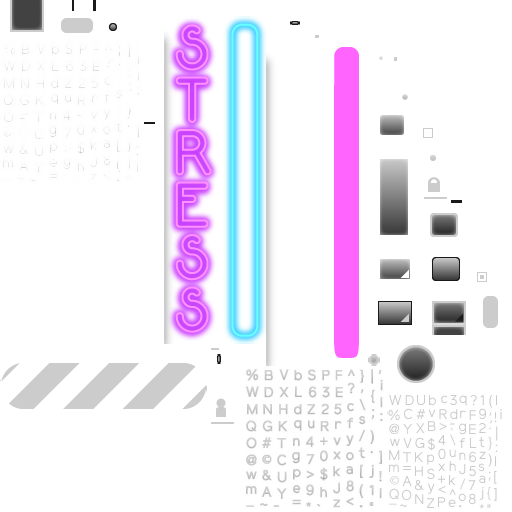
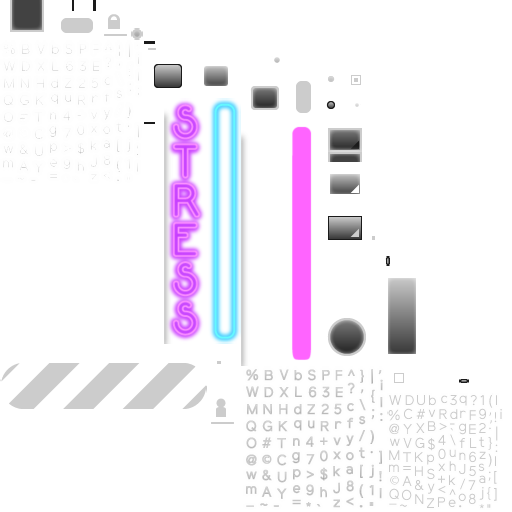
Added stress bar

Changed region(s): [[0.1875, 0.0312, 0.9062, 0.75], [0.8438, 0.5, 1.0, 0.6562], [0.5625, 0.0312, 0.5938, 0.0625]]

diff --git a/core/src/com/adisgrace/games/GameController.java b/core/src/com/adisgrace/games/GameController.java
@@ -162,7 +162,6 @@ public class GameController implements Screen {
         stage.getViewport().apply();
         stage.draw();
 
-        stressBar.setValue(player.getStress());
         toolbarStage.getViewport().apply();
         toolbarStage.draw();
         updateStats();
@@ -220,7 +219,7 @@ public class GameController implements Screen {
         // Move to an outside class eventually
         ExtendViewport toolbarViewPort = new ExtendViewport(Gdx.graphics.getWidth(), Gdx.graphics.getHeight());
         toolbarStage = new Stage(toolbarViewPort);
-        skin = new Skin(Gdx.files.internal("skins/neon-ui.json"));
+        skin = new Skin(Gdx.files.internal("skins/neon-ui-updated.json"));
 
         InputMultiplexer inputMultiplexer = new InputMultiplexer();
         inputMultiplexer.addProcessor(toolbarStage);
@@ -366,9 +365,9 @@ public class GameController implements Screen {
         skillBar.setSize(toolbar.getWidth()*.60f, toolbar.getHeight());
         rightSide.setSize(toolbar.getWidth()*.05f, toolbar.getHeight()/8);
 
-        stressBar = new ProgressBar(0f, 100f, 1f, true, skin);
+        stressBar = new ProgressBar(0f, 100f, 1f, true, skin, "synthwave");
         stressBar.setValue(player.getStress());
-        leftSide.add(stressBar).left();
+        leftSide.add(stressBar).left().width(75).height(244);
 
         int numSkills = 6;
 
@@ -816,6 +815,7 @@ public class GameController implements Screen {
      */
     public void updateStats(){
         stress.setText("Player Stress: " + Integer.toString((int)world.getPlayer().getStress()));
+        stressBar.setValue(player.getStress());
         ap.setText("AP: " + Integer.toString(world.getPlayer().getAP()));
         tStress.setText("Target Stress: " + Integer.toString(target.getStress()));
         tSusp.setText("Target Suspicion: " + Integer.toString(target.getSuspicion()));

diff --git a/core/src/com/adisgrace/games/WorldModel.java b/core/src/com/adisgrace/games/WorldModel.java
@@ -1,11 +1,9 @@
 package com.adisgrace.games;
 
-import java.util.HashMap;
-import java.util.List;
-import java.util.Map;
+import java.util.*;
+
 import com.badlogic.gdx.utils.Array;
 import com.badlogic.gdx.math.Vector2;
-import java.util.Random;
 
 public class WorldModel {
 
@@ -142,10 +140,10 @@ public class WorldModel {
 	/**
 	 * Returns the exposable facts for a given `target`.
 	 *
-	 * @param targetName 	The string name of the selected target
+	 * @param targetName    The string name of the selected target
 	 * @return 				Array of fact IDs that are scanned and not exposed
 	 */
-	public Array<String> getExposableFacts(String targetName){
+	public Set<String> getExposableFacts(String targetName){
 		return exposablenodes.keySet();
 	}
 
@@ -338,19 +336,8 @@ public class WorldModel {
 	*	@return 			the gamestate after this action
 	*/
 	public GAMESTATE harass(String targetname){
-		targets.get(targetname).addStress(7);
-		return this.getGameState;
-	}
-
-	/**
-	*	Harass a target
-	*
-	*	@param targetname 	name of target
-	*	@return 			the gamestate after this action
-	*/
-	public GAMESTATE harass(String targetname){
 		targets.get(targetname).addStress(5);
-		return this.getGameState;
+		return this.getGameState();
 	}
 
 	/**
